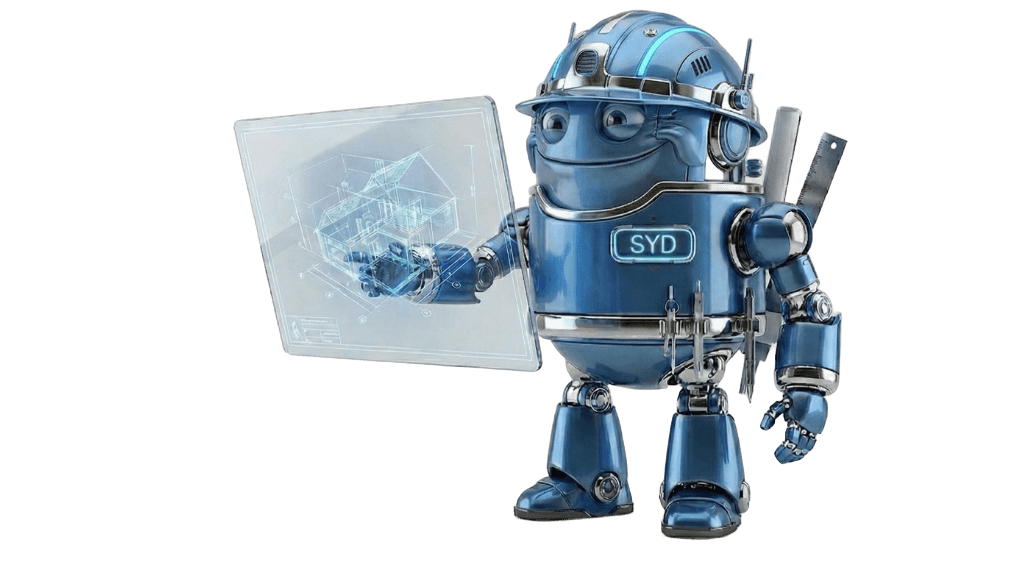
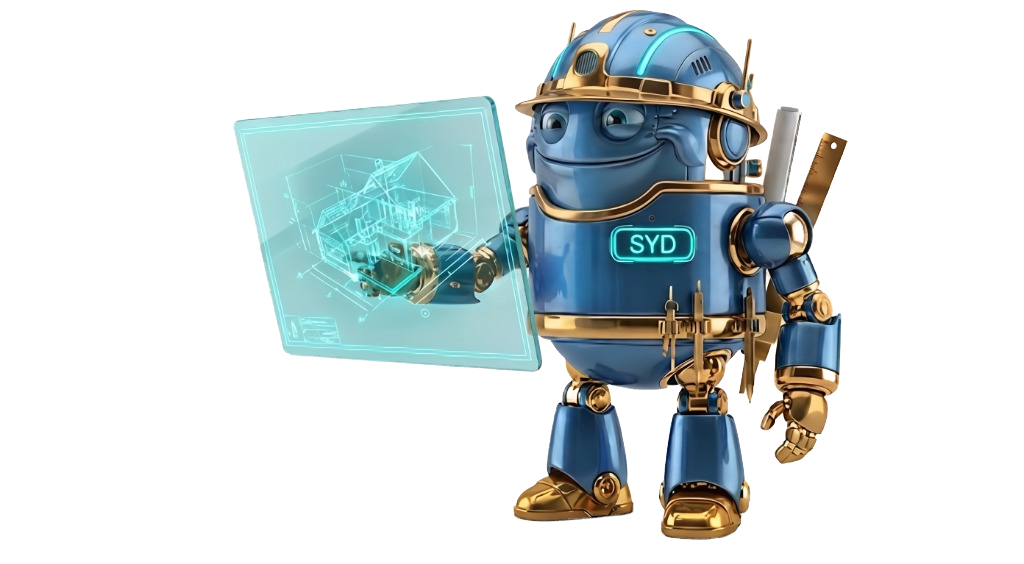
feat(ui): add Statuario marble underlay to Hero+Services and apply definitive Gold Syd mascot
- Add subtle Statuario marble texture underlay (@utility hero-services-marble) running continuously across Hero and Services, fading out smoothly into pure canvas before WhatWeDo
- Maintain WCAG 2.2 AAA contrast with 16% opacity, multiply mix-blend, and vertical gradient mask
- Retain static absolute DOM flow with zero scroll jank (compositor-only, no background-attachment: fixed)
- Apply definitive Syd mascot artwork in luxury Blue & Gold/Brass styling for ChatToggleButton (1024x564 diecut) and ArchitectAvatar (256x256 WebP)
- Preserve mathematical bounds [232, 9, 849, 541] ensuring drag handles, touch bounds, and closed-state edge insets remain pixel-perfect

Changed region(s): [[0.2188, 0.0, 0.8438, 0.844], [0.5, 0.8138, 0.75, 0.9645]]

diff --git a/web_client/app/styles/utilities.css b/web_client/app/styles/utilities.css
@@ -248,6 +248,35 @@
   border: 1px solid color-mix(in oklab, var(--color-ink-muted) 22%, transparent);
 }
 
+/* Hero + Services marble background underlay:
+   Subtle Statuario marble texture running across Hero and Services, fading out
+   smoothly into pure canvas right before "Cosa facciamo".
+   - Zero-jank: positioned statically in the DOM flow with an absolute layer,
+     compositor-only, zero scroll repaint, NO background-attachment: fixed.
+   - Zero-payload: reuses the cached marble-statuario asset from WhatWeDo.
+   - Legibility: subtle opacity (16%) with multiply mix-blend preserves WCAG 2.2 AAA text contrast (>7:1).
+   - Strict tokens: mask uses black/transparent without hardcoded color literals. */
+@utility hero-services-marble {
+  position: absolute;
+  inset-inline: 0;
+  top: 0;
+  bottom: 0;
+  pointer-events: none;
+  z-index: 0;
+  background-image:
+    image-set(
+      url("/textures/marble-statuario.avif") type("image/avif"),
+      url("/textures/marble-statuario.webp") type("image/webp")
+    );
+  background-size: 1400px auto;
+  background-repeat: repeat-y;
+  background-position: center top;
+  opacity: 0.16;
+  mix-blend-mode: multiply;
+  mask-image: linear-gradient(to bottom, black 0%, black 75%, transparent 100%);
+  -webkit-mask-image: linear-gradient(to bottom, black 0%, black 75%, transparent 100%);
+}
+
 /* "Cosa facciamo" cards (WhatWeDo.tsx) — white Statuario marble and gold, raised
    off the warm-white page by the deepest elevation.
    - Stone: one photo (public/textures/marble-statuario.avif, WebP fallback;

diff --git a/web_client/components/sections/Hero.tsx b/web_client/components/sections/Hero.tsx
@@ -19,9 +19,8 @@ export function Hero({ portfolio }: { portfolio?: PortfolioItem[] }) {
         // scrollable, so the "Progetti" anchor (#portfolio lives in here) scrolled the
         // hero itself and hid the h1 for good. clip crops the glows the same way but
         // only lets the page scroll.
-        <section className="relative min-h-[100dvh] flex items-center pt-20 pb-12 md:pb-16 overflow-clip bg-canvas">
+        <section className="relative min-h-[100dvh] flex items-center pt-20 pb-12 md:pb-16 overflow-clip">
             {/* Background Elements - Luxury Tech */}
-            <div className="absolute inset-0 bg-canvas z-0" />
             <div className="absolute top-0 right-0 w-[600px] h-[600px] ambient-glow ambient-glow-teal [--glow-blur:60px] md:[--glow-blur:120px] -translate-y-1/2 translate-x-1/2 pointer-events-none" />
             <div className="absolute bottom-0 left-0 w-[600px] h-[600px] ambient-glow ambient-glow-gold translate-y-1/2 -translate-x-1/2 pointer-events-none" />
 

diff --git a/web_client/components/sections/Services.tsx b/web_client/components/sections/Services.tsx
@@ -65,7 +65,7 @@ export function Services() {
         // scroll container and silently kill the sticky stack below.
         // Bottom trimmed (paired with WhatWeDo's trimmed top) so "Cosa facciamo"
         // follows on from the last service card instead of a full section gap away.
-        <section id="services" className="pt-20 pb-8 md:pb-10 relative bg-canvas overflow-clip">
+        <section id="services" className="pt-20 pb-8 md:pb-10 relative overflow-clip">
             {/* Section Background Decoration */}
             <div className="absolute top-1/2 left-1/2 -translate-x-1/2 -translate-y-1/2 w-full h-full max-w-7xl opacity-30 pointer-events-none">
                 <div className="absolute top-0 right-0 w-96 h-96 ambient-glow ambient-glow-teal" />

diff --git a/web_client/app/page.tsx b/web_client/app/page.tsx
@@ -83,8 +83,13 @@ export default async function Home() {
         dangerouslySetInnerHTML={{ __html: JSON.stringify(jsonLd) }}
       />
       <Navbar />
-      <Hero portfolio={portfolio} />
-      <Services />
+      {/* Narrative header block: subtle Statuario marble texture runs across Hero & Services,
+          fading out into pure canvas right before "Cosa facciamo" (WhatWeDo). */}
+      <div className="relative">
+        <div className="hero-services-marble" aria-hidden="true" />
+        <Hero portfolio={portfolio} />
+        <Services />
+      </div>
       <WhatWeDo />
       <Testimonials />
       <Footer />

diff --git a/web_client/components/chat/ChatToggleButton.tsx b/web_client/components/chat/ChatToggleButton.tsx
@@ -211,7 +211,7 @@ export function ChatToggleButton({ isOpen, onClick }: ChatToggleButtonProps) {
                             {/* Visual Image */}
                             <div className="relative w-full h-full flex items-center justify-center overflow-visible pointer-events-none">
                                 <Image
-                                    src="/assets/syd_final_v9.png"
+                                    src="/assets/syd_final_v10.png"
                                     alt="Chat"
                                     fill
                                     sizes="(max-width: 768px) 158px, 208px"

diff --git a/web_client/components/ArchitectAvatar.tsx b/web_client/components/ArchitectAvatar.tsx
@@ -6,7 +6,7 @@ export default function ArchitectAvatar({ className }: { className?: string }) {
     return (
         <div className={cn("relative w-12 h-12 shadow-sm group flex items-center justify-center bg-canvas rounded-full overflow-hidden border border-line", className)}>
             <Image
-                src="/assets/syd_luxury_avatar_light.webp"
+                src="/assets/syd_luxury_avatar_v10.webp"
                 alt="SYD Avatar"
                 fill
                 sizes="128px"
